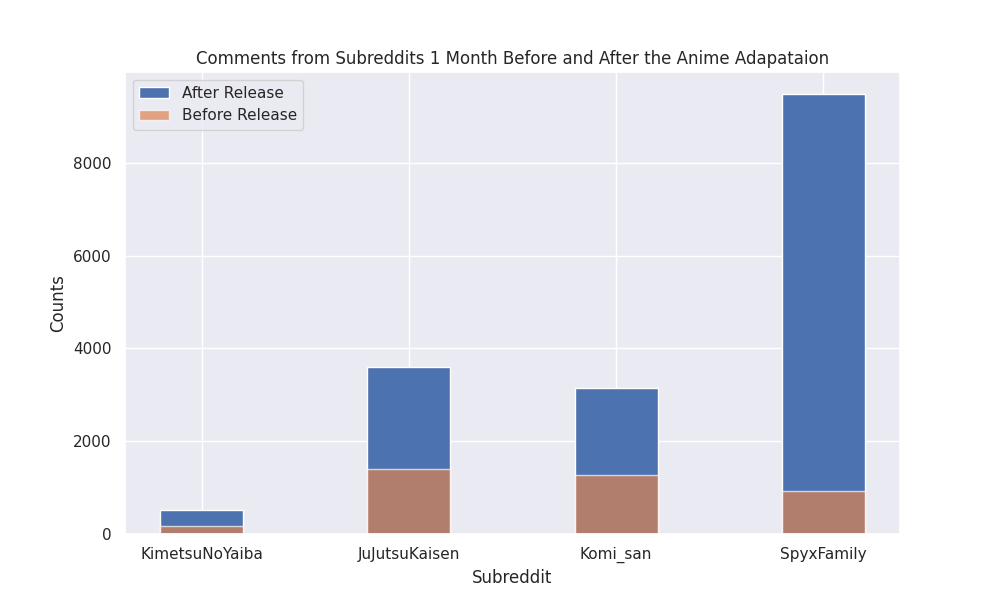
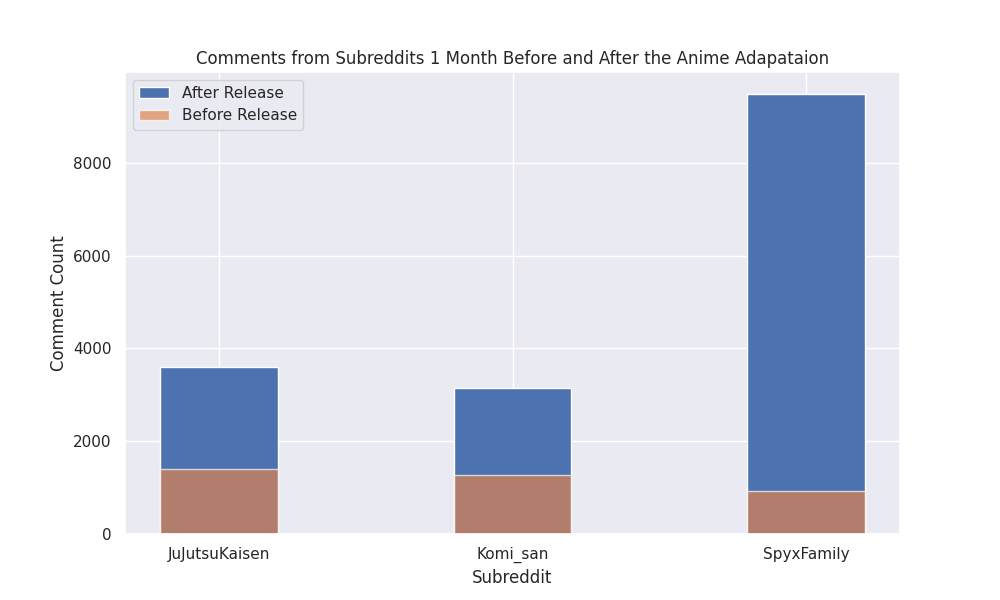
Clean up unused code

diff --git a/collect_data.py b/collect_data.py
@@ -1,17 +1,17 @@
 import sys
 import time
-import numpy as np
 from jikanpy import Jikan
+
 assert sys.version_info >= (3, 8)
 from pyspark.sql import SparkSession, types
 from pyspark.sql import functions as F
 from scipy.stats import mannwhitneyu, chi2_contingency
+
 import matplotlib.pyplot as plt
 import seaborn
 
 reddit_submissions_path = 'Reddit-Cluster-Files/reddit-subset/submissions'
 reddit_comments_path = 'Reddit-Cluster-Files/reddit-subset/comments'
-output = 'reddit-subset'
 
 comments_schema = types.StructType([
     types.StructField('archived', types.BooleanType()),
@@ -106,7 +106,8 @@ def f(anime):
     return name, year, month, day
         
 def main():
-    spark = SparkSession.Builder.appName(SparkSession.builder, "reddit data").getOrCreate()
+    ### Spark Setup ###
+    spark = SparkSession.Builder.appName(SparkSession.builder, "reddit anime/manga data").getOrCreate()
     assert spark.version >= '3.2'
     spark.sparkContext.setLogLevel('WARN')
     
@@ -116,15 +117,12 @@ def main():
     # JikanPy has a rate limit of 3 requests per second and won't work with more than 3 requests unless we wait/sleep for a second
     jujutsu_kaisen = insert_jikan_anime(40748)
     spy_x_family = insert_jikan_anime(50265)
-    demon_slayer = insert_jikan_anime(38000)
     komi_san = insert_jikan_anime(48926)
     
     # Format: Subreddit_name: MyAnimeList data
-    # 2 loops are needed to filter the data from JikanPy to get release dates as the library does not have any built in F to handle this type of task
     anime_info = [
         ("JuJutsuKaisen", jujutsu_kaisen),
         ("SpyxFamily", spy_x_family),
-        ("KimetsuNoYaiba", demon_slayer),
         ("Komi_san", komi_san)
     ]
     anime_list = list(map(f, anime_info))
@@ -144,13 +142,12 @@ def main():
     anime_df = anime_df.withColumn("previous_month",
         F.when(F.col("previous_month") == 0, 12)
          .otherwise(F.col("previous_month"))) # ensure that we have a valid month (e.g. Jan -> Dec)
-
+    
     ### Getting data from the SFU Reddit cluster ###
     
     # Read the submissions files and filter based on the month and year of an anime release from anime_df
     r_sub = spark.read.json(reddit_submissions_path, schema=submissions_schema)
     r_com = spark.read.json(reddit_comments_path, schema=comments_schema)
-
     
     # Filter the data from r_sub to match with our anime data
     release_month_submissions = (r_sub
@@ -179,14 +176,14 @@ def main():
     ### Visualizations ###
     seaborn.set()
     plt.figure(figsize=(10, 6))
-    bar_width = 0.4\
+    bar_width = 0.4
 
     index = range(len(grouped_sub_comments))
     plt.bar(index, grouped_sub_comments['release_total_comments'], width=bar_width, label='After Release')
     plt.bar(index, grouped_sub_comments['previous_total_comments'], width=bar_width, label='Before Release', alpha=0.7)
 
     plt.xlabel('Subreddit')
-    plt.ylabel('Counts')
+    plt.ylabel('Comment Count')
     plt.title('Comments from Subreddits 1 Month Before and After the Anime Adapataion')
     plt.xticks(index, grouped_sub_comments['subreddit'], rotation=0)
     plt.legend()
@@ -243,6 +240,7 @@ def main():
         y2 = coms_byMonth_af.select('count').rdd.flatMap(lambda x: x).collect()
         mw_month_sbm = mannwhitneyu(x1, y1, alternative='less')
         mw_month_com = mannwhitneyu(x2, y2, alternative='less')
+        print("\nSubreddit:", name, "\n")
         print(x1,y1,x2,y2)
         print(mw_month_com, mw_month_sbm)
 
@@ -258,8 +256,10 @@ def main():
         release_month_subs = sbms_af.filter((sbms_af['year'] == year) & (sbms_af['month'] == month))
         total = release_month_subs.select(F.sum(release_month_subs['num_comments'])).rdd.flatMap(lambda x: x).collect()[0]
         contingency[1].append(total)
+        print("\nFinish tests for", name, "\n")
 
     # chi contingency
+    print("\nChi2 Contingency Test")
     chi = chi2_contingency(contingency)
     print(contingency, chi)
     
